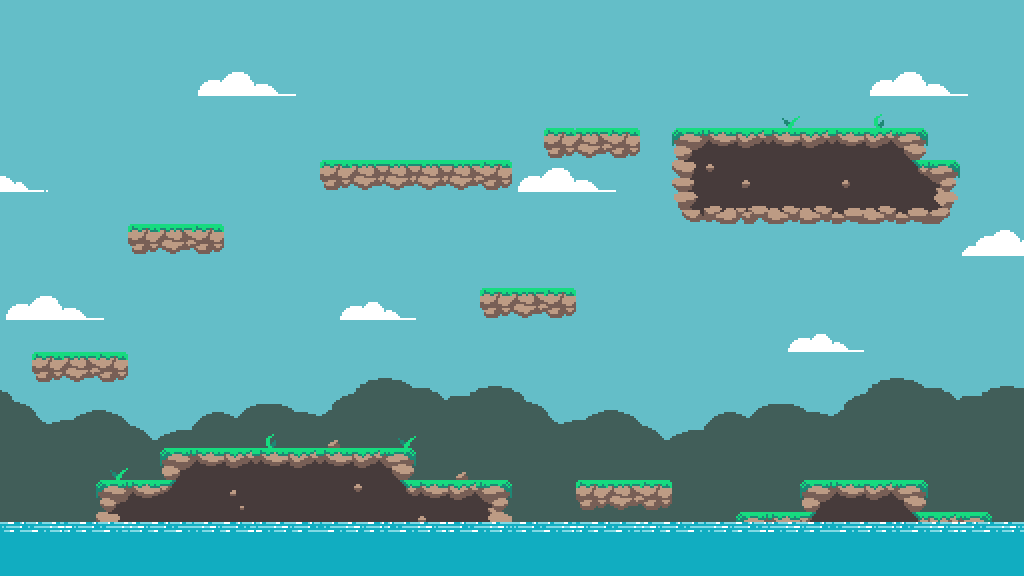
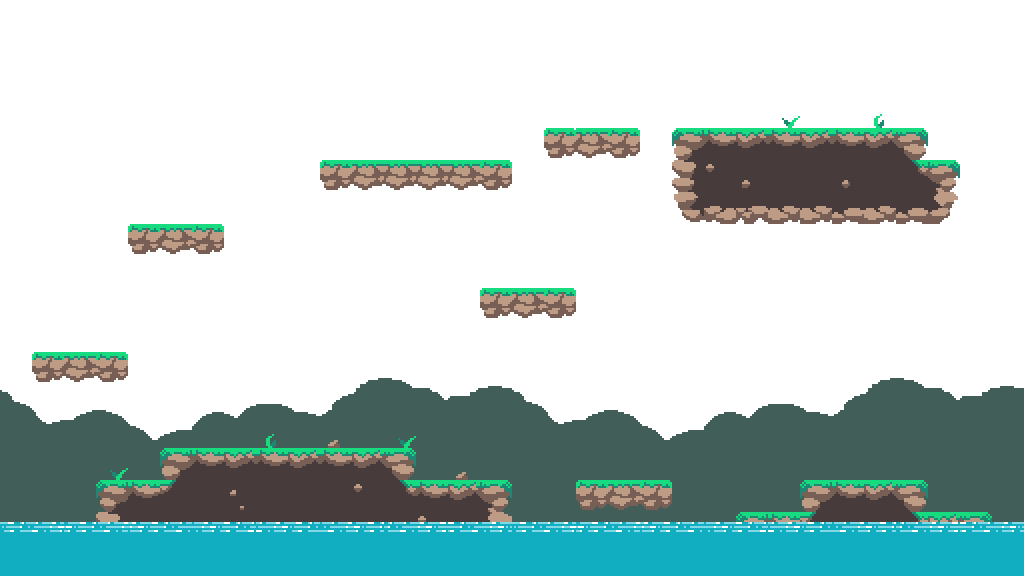
Added moving clouds.

diff --git a/js/classes/Particles.js b/js/classes/Particles.js
@@ -41,3 +41,36 @@ class JumpParticle extends VisualParticle {
                ticksPerFrame: 2});
     }
 }
+
+class CloudParticle extends VisualParticle {
+    constructor(pos_x, pos_y) {
+        super({pos_x, pos_y, 
+               imageSrc: './images/cloud1.png', 
+               frameCount: 1, 
+               loops: -1, 
+               ticksPerFrame: 1});
+        this.sources = [['./images/cloud1.png', 0.5],
+                        ['./images/cloud2.png', 0.45],
+                        ['./images/cloud3.png', 0.4],
+                        ['./images/cloud4.png', 0.3],
+                        ['./images/cloud5.png', 0.3],
+                        ['./images/cloud6.png', 0.25]];
+        this.speed = 0.5;
+        this.selectRandSprite();
+    }
+
+    draw() {
+        if (this.loaded) {
+            c.drawImage(this.image, 
+                        this.pos.x, 
+                        this.pos.y);
+        }
+    }
+
+    selectRandSprite() {
+        let rnd_int = Math.round(Math.random()*5);
+        console.log("Assigned cloud type:", rnd_int);
+        this.image.src = this.sources[rnd_int][0];
+        this.speed = this.sources[rnd_int][1];
+    }
+}

diff --git a/index.js b/index.js
@@ -30,9 +30,24 @@ function updateParticles() {
     }
 }
 
+function updateClouds() {
+    for (let i = 0; i < clouds.length; i++) {
+        if (clouds[i].pos.x < -100) clouds[i].pos.x = canvas.width;
+        clouds[i].pos.x -= clouds[i].speed;
+        clouds[i].draw();
+        if (debug_mode) {
+            clouds[i].drawSpriteBox();}
+    }
+}
+
 function gameLoop() {
     window.requestAnimationFrame(gameLoop);
     c.clearRect(0, 0, canvas.width, canvas.height);
+
+    c.fillStyle = '#64BEC8'
+    c.fillRect(0,0, canvas.width, canvas.height);
+
+    updateClouds();
 
     backgroundLevel1.draw();
     
@@ -62,5 +77,6 @@ const sounds = new WorldSounds();
 const player = new Player(110, 140);
 let entities = [player];
 let particles = [];
+let clouds = [new CloudParticle(150, 100), new CloudParticle(600, 200), new CloudParticle(250, 300), new CloudParticle(400, 50), new CloudParticle(950, 80), new CloudParticle(920, 300)];
 
 gameLoop()
